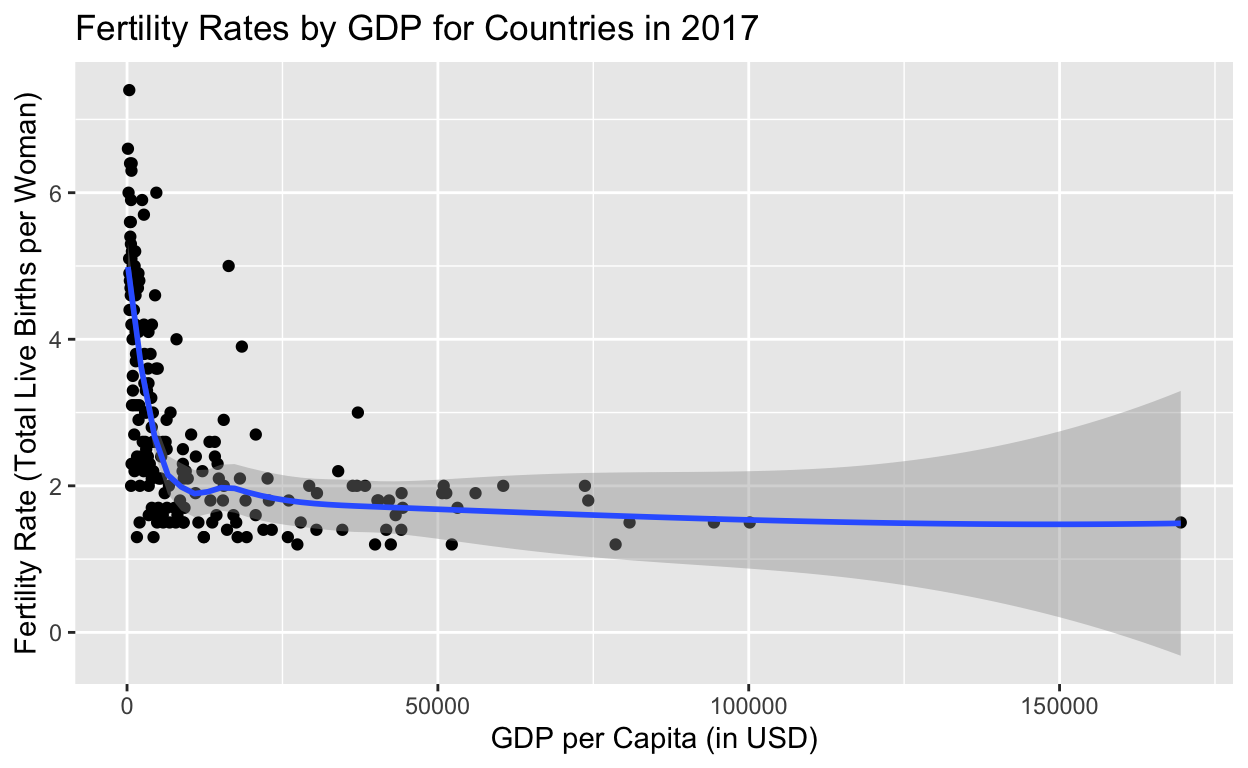
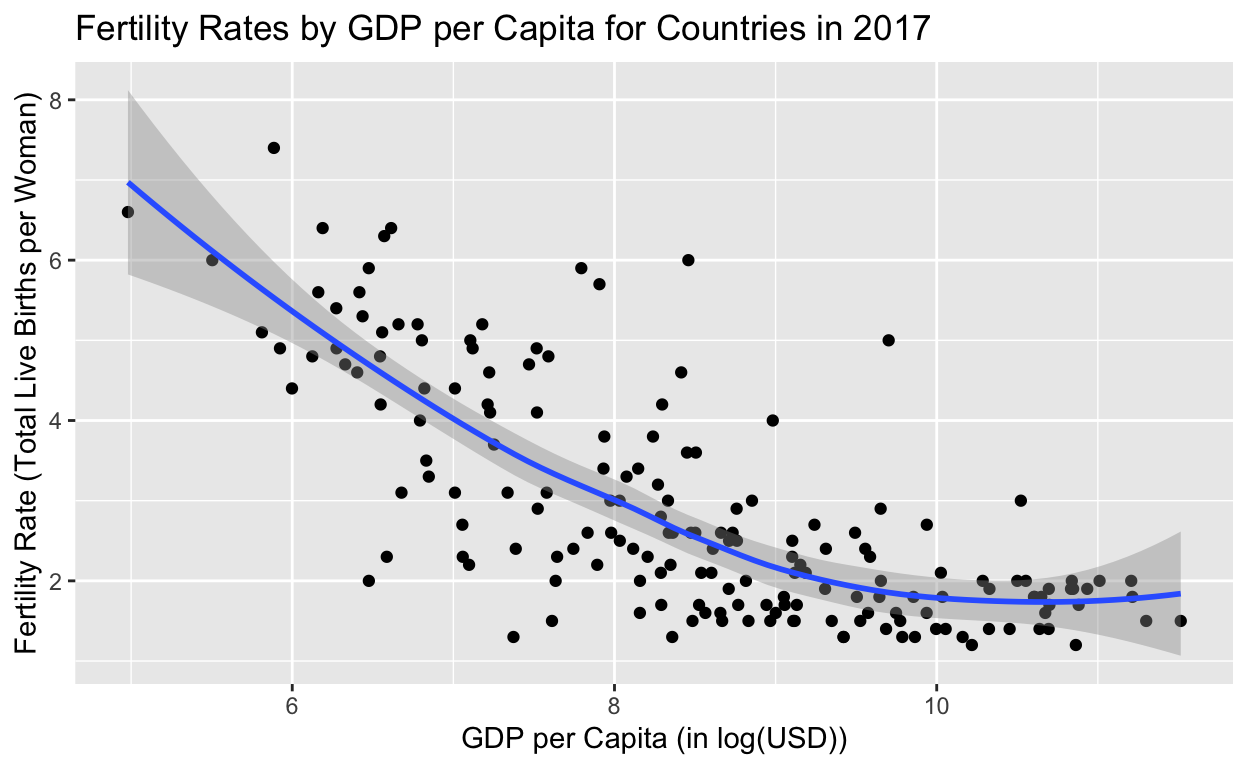
forgot to knit to distill article

diff --git a/index.html b/index.html
@@ -115,7 +115,7 @@ code span.wa { color: #5e5e5e; font-style: italic; } /* Warning */
   <!--/radix_placeholder_rmarkdown_metadata-->
   
   <script type="text/json" id="radix-resource-manifest">
-  {"type":"character","attributes":{},"value":["country_profile_variables.csv","index_files/anchor-4.2.2/anchor.min.js","index_files/bowser-1.9.3/bowser.min.js","index_files/distill-2.2.21/template.v2.js","index_files/figure-html5/unnamed-chunk-2-1.png","index_files/header-attrs-2.17/header-attrs.js","index_files/header-attrs-2.24/header-attrs.js","index_files/jquery-3.6.0/jquery-3.6.0.js","index_files/jquery-3.6.0/jquery-3.6.0.min.js","index_files/jquery-3.6.0/jquery-3.6.0.min.map","index_files/popper-2.6.0/popper.min.js","index_files/tippy-6.2.7/tippy-bundle.umd.min.js","index_files/tippy-6.2.7/tippy-light-border.css","index_files/tippy-6.2.7/tippy.css","index_files/tippy-6.2.7/tippy.umd.min.js","index_files/webcomponents-2.0.0/webcomponents.js"]}
+  {"type":"character","attributes":{},"value":["country_profile_variables.csv","index_files/anchor-4.2.2/anchor.min.js","index_files/bowser-1.9.3/bowser.min.js","index_files/distill-2.2.21/template.v2.js","index_files/figure-html5/unnamed-chunk-2-1.png","index_files/header-attrs-2.17/header-attrs.js","index_files/header-attrs-2.24/header-attrs.js","index_files/jquery-3.6.0/jquery-3.6.0.js","index_files/jquery-3.6.0/jquery-3.6.0.min.js","index_files/jquery-3.6.0/jquery-3.6.0.min.map","index_files/kePrint-0.0.1/kePrint.js","index_files/lightable-0.0.1/lightable.css","index_files/popper-2.6.0/popper.min.js","index_files/tippy-6.2.7/tippy-bundle.umd.min.js","index_files/tippy-6.2.7/tippy-light-border.css","index_files/tippy-6.2.7/tippy.css","index_files/tippy-6.2.7/tippy.umd.min.js","index_files/webcomponents-2.0.0/webcomponents.js"]}
   </script>
   <!--radix_placeholder_navigation_in_header-->
   <!--/radix_placeholder_navigation_in_header-->
@@ -1528,54 +1528,78 @@ code span.wa { color: #5e5e5e; font-style: italic; } /* Warning */
 <span><span class='kw'><a href='https://rdrr.io/r/base/library.html'>library</a></span><span class='op'>(</span><span class='va'><a href='https://ggplot2.tidyverse.org'>ggplot2</a></span><span class='op'>)</span></span>
 <span><span class='va'>countries</span> <span class='op'>&lt;-</span> <span class='fu'><a href='https://rdrr.io/r/utils/read.table.html'>read.csv</a></span><span class='op'>(</span><span class='st'>"country_profile_variables.csv"</span><span class='op'>)</span></span>
 <span><span class='va'>countries1</span> <span class='op'>&lt;-</span> <span class='va'>countries</span><span class='op'>[</span><span class='op'>!</span><span class='op'>(</span><span class='va'>countries</span><span class='op'>$</span><span class='va'>Fertility.rate..total..live.births.per.woman.</span> <span class='op'>&lt;</span> <span class='fl'>0</span> <span class='op'>|</span> </span>
-<span>                            <span class='va'>countries</span><span class='op'>$</span><span class='va'>GDP.per.capita..current.US..</span> <span class='op'>&lt;</span><span class='fl'>0</span><span class='op'>)</span>,<span class='op'>]</span></span></code></pre>
+<span>                            <span class='va'>countries</span><span class='op'>$</span><span class='va'>GDP.per.capita..current.US..</span> <span class='op'>&lt;</span> <span class='fl'>0</span> <span class='op'>|</span></span>
+<span>                            <span class='va'>countries</span><span class='op'>$</span><span class='va'>Employment..Agriculture....of.employed.</span> <span class='op'>&lt;</span> <span class='fl'>0</span> <span class='op'>|</span></span>
+<span>                            <span class='va'>countries</span><span class='op'>$</span><span class='va'>Seats.held.by.women.in.national.parliaments..</span> <span class='op'>&lt;</span> <span class='fl'>0</span><span class='op'>)</span>,<span class='op'>]</span> <span class='op'>|&gt;</span></span>
+<span>  <span class='fu'><a href='https://dplyr.tidyverse.org/reference/mutate.html'>mutate</a></span><span class='op'>(</span></span>
+<span>    log_GDP <span class='op'>=</span> <span class='fu'><a href='https://rdrr.io/r/base/Log.html'>log</a></span><span class='op'>(</span><span class='va'>GDP.per.capita..current.US..</span> <span class='op'>+</span> <span class='fl'>1</span><span class='op'>)</span></span>
+<span>  <span class='op'>)</span></span></code></pre>
 </div>
 </div>
 <div class="layout-chunk" data-layout="l-body">
 <div class="sourceCode">
-<pre class="sourceCode r"><code class="sourceCode r"><span><span class='fu'><a href='https://ggplot2.tidyverse.org/reference/ggplot.html'>ggplot</a></span><span class='op'>(</span>data <span class='op'>=</span> <span class='va'>countries1</span>, mapping <span class='op'>=</span> <span class='fu'><a href='https://ggplot2.tidyverse.org/reference/aes.html'>aes</a></span><span class='op'>(</span>x <span class='op'>=</span> <span class='va'>GDP.per.capita..current.US..</span>, </span>
+<pre class="sourceCode r"><code class="sourceCode r"><span><span class='fu'><a href='https://ggplot2.tidyverse.org/reference/ggplot.html'>ggplot</a></span><span class='op'>(</span>data <span class='op'>=</span> <span class='va'>countries1</span>, mapping <span class='op'>=</span> <span class='fu'><a href='https://ggplot2.tidyverse.org/reference/aes.html'>aes</a></span><span class='op'>(</span>x <span class='op'>=</span> <span class='va'>log_GDP</span>, </span>
 <span>                                       y <span class='op'>=</span> <span class='fu'><a href='https://rdrr.io/r/base/numeric.html'>as.numeric</a></span><span class='op'>(</span><span class='va'>Fertility.rate..total..live.births.per.woman.</span><span class='op'>)</span><span class='op'>)</span><span class='op'>)</span> <span class='op'>+</span></span>
 <span>  <span class='fu'><a href='https://ggplot2.tidyverse.org/reference/geom_point.html'>geom_point</a></span><span class='op'>(</span><span class='op'>)</span> <span class='op'>+</span></span>
 <span>  <span class='fu'><a href='https://ggplot2.tidyverse.org/reference/geom_smooth.html'>geom_smooth</a></span><span class='op'>(</span><span class='op'>)</span> <span class='op'>+</span></span>
 <span>  <span class='fu'><a href='https://ggplot2.tidyverse.org/reference/labs.html'>labs</a></span><span class='op'>(</span></span>
-<span>    x <span class='op'>=</span> <span class='st'>"GDP per Capita (in USD)"</span>,</span>
+<span>    x <span class='op'>=</span> <span class='st'>"GDP per Capita (in log(USD))"</span>,</span>
 <span>    y <span class='op'>=</span> <span class='st'>"Fertility Rate (Total Live Births per Woman)"</span>,</span>
-<span>    title <span class='op'>=</span> <span class='st'>"Fertility Rates by GDP for Countries in 2017"</span></span>
+<span>    title <span class='op'>=</span> <span class='st'>"Fertility Rates by GDP per Capita for Countries in 2017"</span></span>
 <span>  <span class='op'>)</span></span></code></pre>
 </div>
 <p><img src="index_files/figure-html5/unnamed-chunk-2-1.png" width="624" /></p>
 </div>
 <div class="layout-chunk" data-layout="l-body">
 <div class="sourceCode">
-<pre class="sourceCode r"><code class="sourceCode r"><span><span class='va'>fit1</span> <span class='op'>&lt;-</span> <span class='fu'><a href='https://rdrr.io/r/stats/lm.html'>lm</a></span><span class='op'>(</span><span class='fu'><a href='https://rdrr.io/r/base/numeric.html'>as.numeric</a></span><span class='op'>(</span><span class='va'>Fertility.rate..total..live.births.per.woman.</span><span class='op'>)</span> <span class='op'>~</span> <span class='va'>GDP.per.capita..current.US..</span>, data <span class='op'>=</span> <span class='va'>countries1</span><span class='op'>)</span></span>
+<pre class="sourceCode r"><code class="sourceCode r"><span><span class='va'>fit1</span> <span class='op'>&lt;-</span> <span class='fu'><a href='https://rdrr.io/r/stats/lm.html'>lm</a></span><span class='op'>(</span><span class='fu'><a href='https://rdrr.io/r/base/numeric.html'>as.numeric</a></span><span class='op'>(</span><span class='va'>Fertility.rate..total..live.births.per.woman.</span><span class='op'>)</span> <span class='op'>~</span> <span class='va'>log_GDP</span> <span class='op'>+</span> </span>
+<span>             <span class='fu'><a href='https://rdrr.io/r/base/numeric.html'>as.numeric</a></span><span class='op'>(</span><span class='va'>Employment..Agriculture....of.employed.</span><span class='op'>)</span> <span class='op'>+</span> </span>
+<span>             <span class='va'>Seats.held.by.women.in.national.parliaments..</span>, data <span class='op'>=</span> <span class='va'>countries1</span><span class='op'>)</span></span>
 <span><span class='fu'><a href='https://rdrr.io/r/base/summary.html'>summary</a></span><span class='op'>(</span><span class='va'>fit1</span><span class='op'>)</span></span></code></pre>
 </div>
 <pre><code>
 Call:
 lm(formula = as.numeric(Fertility.rate..total..live.births.per.woman.) ~ 
-    GDP.per.capita..current.US.., data = countries1)
+    log_GDP + as.numeric(Employment..Agriculture....of.employed.) + 
+        Seats.held.by.women.in.national.parliaments.., data = countries1)
 
 Residuals:
     Min      1Q  Median      3Q     Max 
--1.9200 -0.9502 -0.3023  0.8791  4.1440 
+-2.4442 -0.6166 -0.0770  0.4598  3.5117 
 
 Coefficients:
-                               Estimate Std. Error t value Pr(&gt;|t|)
-(Intercept)                   3.266e+00  1.091e-01  29.953  &lt; 2e-16
-GDP.per.capita..current.US.. -2.916e-05  4.189e-06  -6.961 4.97e-11
-                                
-(Intercept)                  ***
-GDP.per.capita..current.US.. ***
+                                                     Estimate
+(Intercept)                                          6.088949
+log_GDP                                             -0.447665
+as.numeric(Employment..Agriculture....of.employed.)  0.020571
+Seats.held.by.women.in.national.parliaments..        0.002605
+                                                    Std. Error
+(Intercept)                                           1.010362
+log_GDP                                               0.102844
+as.numeric(Employment..Agriculture....of.employed.)   0.006285
+Seats.held.by.women.in.national.parliaments..         0.006210
+                                                    t value Pr(&gt;|t|)
+(Intercept)                                           6.027 9.83e-09
+log_GDP                                              -4.353 2.29e-05
+as.numeric(Employment..Agriculture....of.employed.)   3.273  0.00128
+Seats.held.by.women.in.national.parliaments..         0.419  0.67541
+                                                       
+(Intercept)                                         ***
+log_GDP                                             ***
+as.numeric(Employment..Agriculture....of.employed.) ** 
+Seats.held.by.women.in.national.parliaments..          
 ---
 Signif. codes:  0 &#39;***&#39; 0.001 &#39;**&#39; 0.01 &#39;*&#39; 0.05 &#39;.&#39; 0.1 &#39; &#39; 1
 
-Residual standard error: 1.279 on 196 degrees of freedom
-Multiple R-squared:  0.1982,    Adjusted R-squared:  0.1941 
-F-statistic: 48.45 on 1 and 196 DF,  p-value: 4.97e-11</code></pre>
+Residual standard error: 0.9589 on 173 degrees of freedom
+Multiple R-squared:  0.5701,    Adjusted R-squared:  0.5627 
+F-statistic: 76.48 on 3 and 173 DF,  p-value: &lt; 2.2e-16</code></pre>
 <div class="sourceCode">
 <pre class="sourceCode r"><code class="sourceCode r"><span><span class='kw'><a href='https://rdrr.io/r/base/library.html'>library</a></span><span class='op'>(</span><span class='va'><a href='https://modelsummary.com'>modelsummary</a></span><span class='op'>)</span></span>
 <span></span>
-<span><span class='fu'><a href='https://rdrr.io/pkg/modelsummary/man/modelsummary.html'>modelsummary</a></span><span class='op'>(</span><span class='fu'><a href='https://rdrr.io/r/base/list.html'>list</a></span><span class='op'>(</span><span class='va'>fit1</span><span class='op'>)</span>, coef_rename <span class='op'>=</span> <span class='fu'><a href='https://rdrr.io/r/base/c.html'>c</a></span><span class='op'>(</span><span class='st'>"Intercept"</span>, <span class='st'>"GDP per Capita (USD)"</span><span class='op'>)</span><span class='op'>)</span></span></code></pre>
+<span><span class='fu'><a href='https://rdrr.io/pkg/modelsummary/man/modelsummary.html'>modelsummary</a></span><span class='op'>(</span><span class='fu'><a href='https://rdrr.io/r/base/list.html'>list</a></span><span class='op'>(</span><span class='va'>fit1</span><span class='op'>)</span>, coef_rename <span class='op'>=</span> <span class='fu'><a href='https://rdrr.io/r/base/c.html'>c</a></span><span class='op'>(</span><span class='st'>"Intercept"</span>, <span class='st'>"GDP per Capita (in log(USD))"</span>,</span>
+<span>                                         <span class='st'>"Percentage of labor force employed in agriculture"</span>,</span>
+<span>                                         <span class='st'>"Seats held by women in national parliaments"</span><span class='op'>)</span><span class='op'>)</span></span></code></pre>
 </div>
 <table class="table" style="width: auto !important; margin-left: auto; margin-right: auto;">
 <thead>
@@ -1593,29 +1617,59 @@ F-statistic: 48.45 on 1 and 196 DF,  p-value: 4.97e-11</code></pre>
 Intercept
 </td>
 <td style="text-align:center;">
-3.266
+6.089
 </td>
 </tr>
 <tr>
 <td style="text-align:left;">
 </td>
 <td style="text-align:center;">
-(0.109)
+(1.010)
 </td>
 </tr>
 <tr>
 <td style="text-align:left;">
-GDP per Capita (USD)
+GDP per Capita (in log(USD))
 </td>
 <td style="text-align:center;">
-0.000
+−0.448
+</td>
+</tr>
+<tr>
+<td style="text-align:left;">
+</td>
+<td style="text-align:center;">
+(0.103)
+</td>
+</tr>
+<tr>
+<td style="text-align:left;">
+Percentage of labor force employed in agriculture
+</td>
+<td style="text-align:center;">
+0.021
+</td>
+</tr>
+<tr>
+<td style="text-align:left;">
+</td>
+<td style="text-align:center;">
+(0.006)
+</td>
+</tr>
+<tr>
+<td style="text-align:left;">
+Seats held by women in national parliaments
+</td>
+<td style="text-align:center;">
+0.003
 </td>
 </tr>
 <tr>
 <td style="text-align:left;box-shadow: 0px 1.5px">
 </td>
 <td style="text-align:center;box-shadow: 0px 1.5px">
-(0.000)
+(0.006)
 </td>
 </tr>
 <tr>
@@ -1623,7 +1677,7 @@ GDP per Capita (USD)
 Num.Obs.
 </td>
 <td style="text-align:center;">
-198
+177
 </td>
 </tr>
 <tr>
@@ -1631,7 +1685,7 @@ Num.Obs.
 R2
 </td>
 <td style="text-align:center;">
-0.198
+0.570
 </td>
 </tr>
 <tr>
@@ -1639,7 +1693,7 @@ R2
 R2 Adj.
 </td>
 <td style="text-align:center;">
-0.194
+0.563
 </td>
 </tr>
 <tr>
@@ -1647,7 +1701,7 @@ R2 Adj.
 AIC
 </td>
 <td style="text-align:center;">
-663.3
+493.4
 </td>
 </tr>
 <tr>
@@ -1655,7 +1709,7 @@ AIC
 BIC
 </td>
 <td style="text-align:center;">
-673.2
+509.3
 </td>
 </tr>
 <tr>
@@ -1663,7 +1717,7 @@ BIC
 Log.Lik.
 </td>
 <td style="text-align:center;">
-−328.656
+−241.703
 </td>
 </tr>
 <tr>
@@ -1671,7 +1725,7 @@ Log.Lik.
 RMSE
 </td>
 <td style="text-align:center;">
-1.27
+0.95
 </td>
 </tr>
 </tbody>
